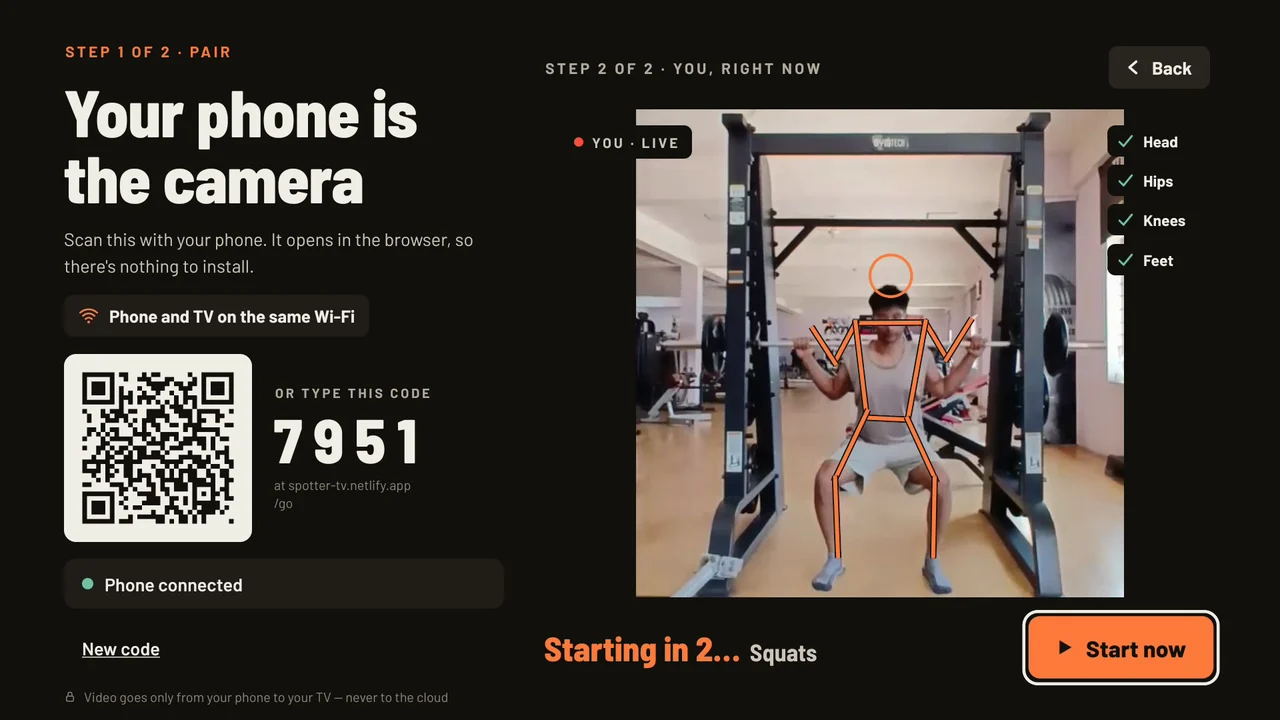
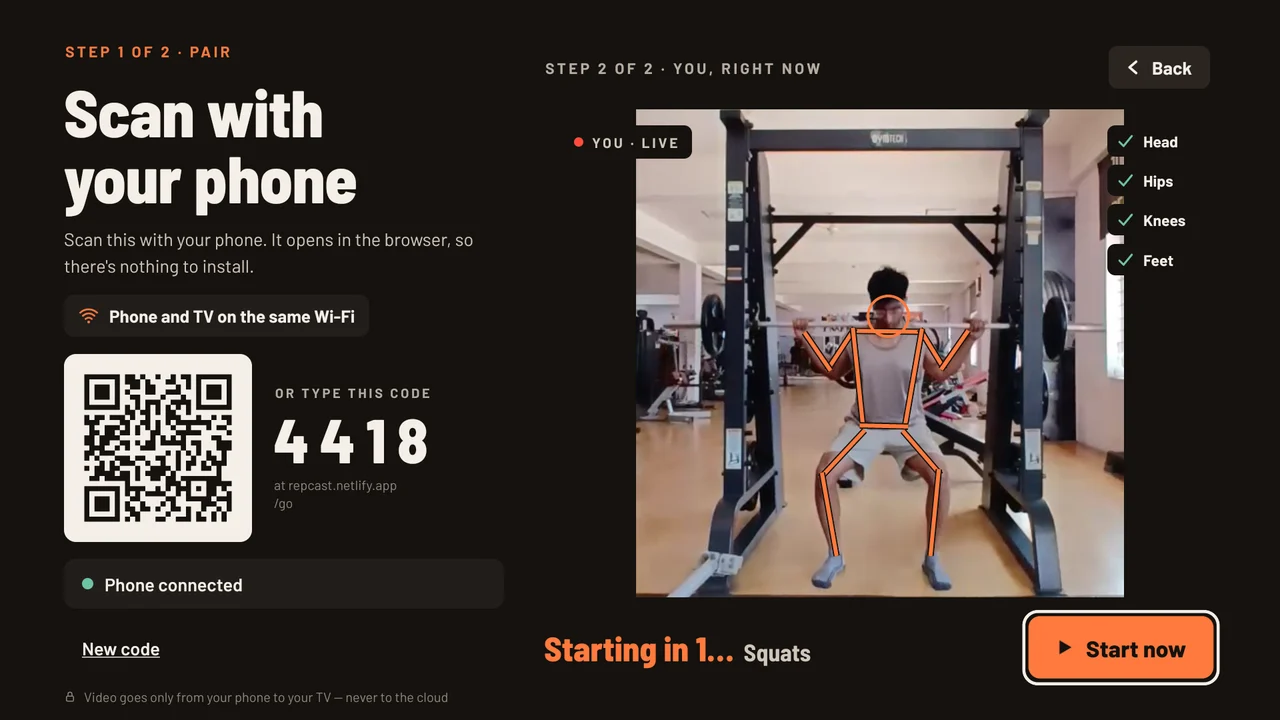
New TV and phone shots from the RepCast build (new pairing heading and address, repcast. on the phone page)

diff --git a/index.html b/index.html
@@ -45,10 +45,10 @@
         </div>
         <div class="devices">
           <div class="tv">
-            <img src="assets/img/tv-live-video.webp" width="1280" height="720" alt="RepCast on a Fire TV: live video of a lifter at the bottom of a squat in a gym, an orange skeleton drawn on him, the rep count 03 of 12, and the coach saying “Good depth.”">
+            <img src="assets/img/tv-live-video.webp" width="1280" height="720" alt="RepCast on a Fire TV: live video of a lifter at the bottom of a squat in a gym, an orange skeleton drawn on him, the rep count 08 of 12, and the coach saying “That's it — smooth.”">
           </div>
           <div class="phone">
-            <img src="assets/img/phone-live.webp" width="585" height="1266" alt="The phone camera page: the same lifter at the bottom of a squat with the skeleton, 11 of 12, knee at 73°, and “Good rep”.">
+            <img src="assets/img/phone-live.webp" width="585" height="1266" alt="The phone camera page: the same lifter at the bottom of a squat with the skeleton, 6 of 12, knee at 70°, and “Good rep”.">
           </div>
           <span class="link-tag">
             <svg width="18" height="18" viewBox="0 0 24 24" aria-hidden="true"><path d="M2.5 9C8 4 16 4 21.5 9M5.5 12.5C9.5 9 14.5 9 18.5 12.5M8.5 16c2-1.7 5-1.7 7 0" fill="none" stroke="#FF7A3D" stroke-width="2.4" stroke-linecap="round"/><circle cx="12" cy="19.5" r="1.6" fill="#FF7A3D"/></svg>
